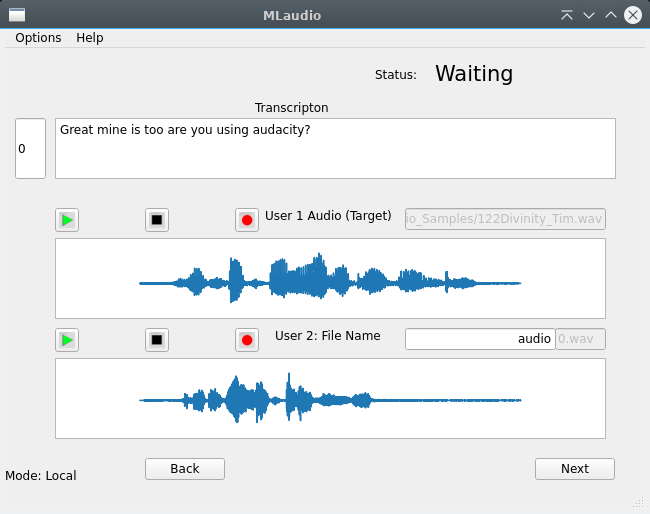
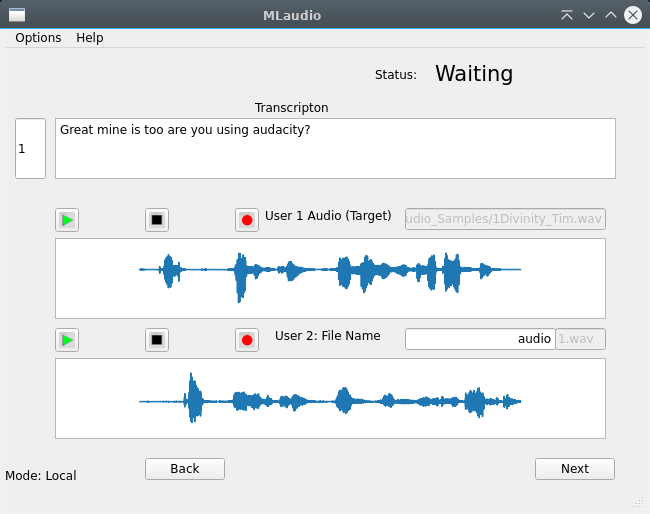
Added sort for trailing filename numbers. Updated application screenshot.

diff --git a/MLaudio.py b/MLaudio.py
@@ -31,6 +31,7 @@ import matplotlib.pyplot as plt
 #and just have used a single object for this.
 
 cwd = os.getcwd()
+sort_type = "end"
 
 line_num = 1
 base_file_name = "audio"
@@ -348,6 +349,7 @@ class MLaudio(QMainWindow):
         global audio_clips
         global filename1
         global currently_write_filename
+        global sort_type
         
         #If directory is empty then use default name for recording.
         if audio_clips != "False":
@@ -356,12 +358,8 @@ class MLaudio(QMainWindow):
                 dir_list_sorted = [None]*(len(dir_list)+1)
                 print(len(dir_list_sorted))
                 #Do the files need to be sorted by any particular order?
-                #Select wheter to default sort, begining numbers or end numbers of the filename
-                #if default dir_list.sort()
-                #elif beginning then check each character of the filename one by one until a non-numeric value
-                #     is found. slice the numbers out, place the file in that position in a list. Indexes should
-                #     not exceed 1 past the length of the list.
-                #elif ending iterate backward through filename one by one, repeat above logic.
+                #Sort by nums at begining,end of the filename, or default system sort.
+                
                 option = "begining"
                 
                 for filena in dir_list:
@@ -381,12 +379,20 @@ class MLaudio(QMainWindow):
                             elif char.isnumeric() == False:
                                 print("ended at: " + str(x))
                                 break
+                        #Check assumption that it starts with numbers
                         if x > 0:
                             dir_list_sorted[int(filena[0:x])-1]=filena
+                            
                     else:
-                        pass
-                print('breked?')
-                #Check if the file type is wav, if it isn't, go to the next
+                        if filena[-4:len(filena)] == '.wav' and filena[-5:-4].isnumeric():
+                            x = -4
+                            for c in reversed(filena[0:-4]):
+                                if c.isnumeric() == True:
+                                    x -= 1
+                                elif c.isnumeric() == False:
+                                    break
+                            dir_list_sorted[int(filena[x:-4])-1] = filena
+                        
                 
                 filename1 = audio_clips + "/" + dir_list_sorted[line_num-1]
                 self.ui.lineEdit_filename_target.setText(filename1)
